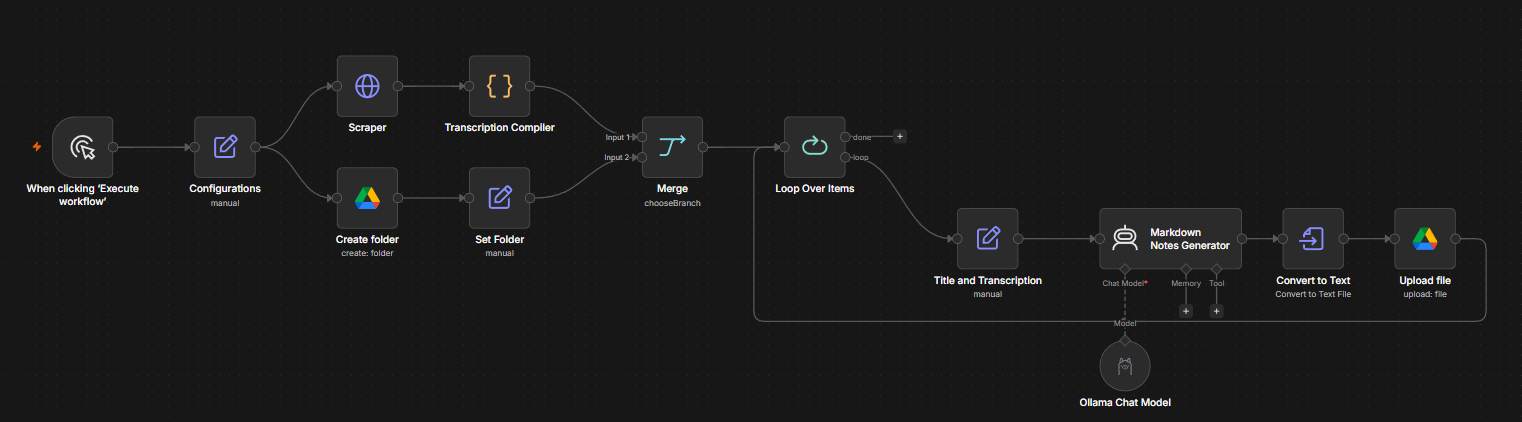
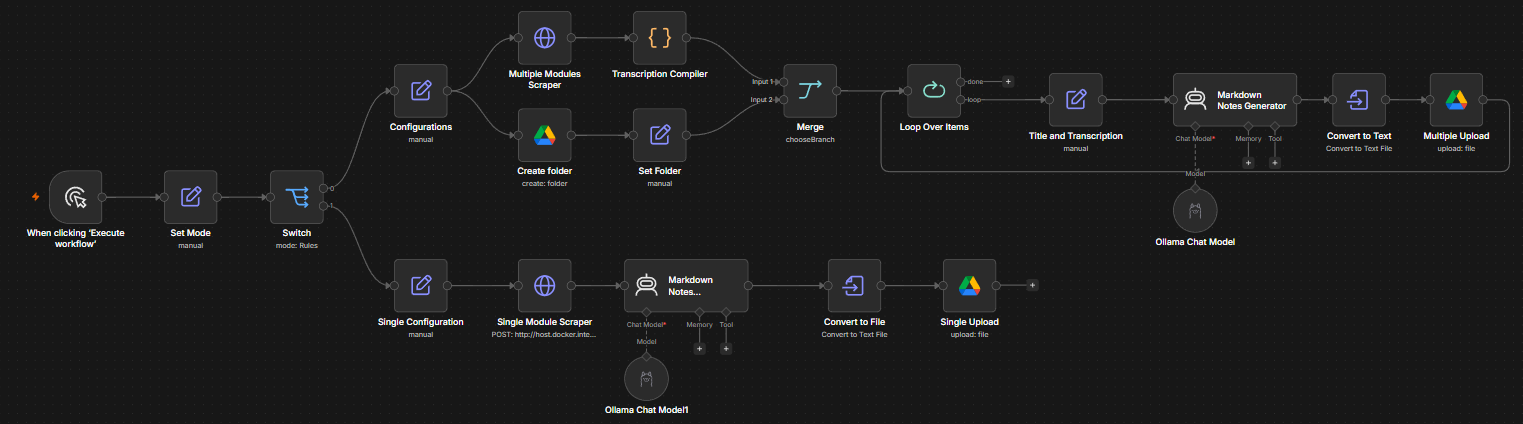
Del: removed troubleshooting sectionn

diff --git a/README.md b/README.md
@@ -5,7 +5,7 @@
 <p align="center"><i>Watch the lecture once. Keep the notes forever.</i></p>
 
 <p align="center">
-A small FastAPI service drives a logged-in Chromium browser through a Coursera course, opens every lecture in a module and reads its transcript. An n8n workflow calls that service, hands each transcript to a local Ollama model that writes the study notes, and uploads one Markdown file per lecture into a Google Drive folder.
+A small FastAPI service drives a logged-in Chromium browser through Coursera and reads lecture transcripts, either a whole module at a time or one lecture at a time. An n8n workflow calls that service, hands each transcript to a local Ollama model that writes the study notes, and uploads the Markdown files to Google Drive.
 </p>
 
 <p align="center">
@@ -22,7 +22,7 @@ A small FastAPI service drives a logged-in Chromium browser through a Coursera c
 ## Preview
 
 <p align="center">
-  <img src="docs/n8n-workflow.png" alt="The n8n workflow, from the manual trigger to the Google Drive upload" width="900" />
+  <img src="docs/n8n-workflow.png" alt="The n8n workflow: Set Mode and a Switch route each run to the multiple modules branch or the single module branch" width="900" />
 </p>
 
 ## Runs locally
@@ -41,56 +41,66 @@ What this means:
 
 - **Private.** Your Coursera session cookies and lecture transcripts stay on your computer. The model writes notes offline, and only the finished Markdown files are uploaded.
 - **Free to run.** There are no per-request API costs, so you can generate notes for a whole course as often as you like.
-- **Under your control.** You choose the Ollama model, edit the prompt in the Markdown Notes Generator node, and can point the upload step somewhere else, such as a local folder, if you'd rather not use Drive.
+- **Under your control.** You choose the Ollama model, edit the prompt in the Markdown Notes Generator nodes, and can point the upload step somewhere else, such as a local folder, if you'd rather not use Drive.
 
-Keep `auth.json`, `coursera_profile/` and `.env` out of version control. They're already listed in `.gitignore`, because anyone holding `auth.json` can sign in as you.
+Keep `auth.json` and `coursera_profile/` out of version control. They're already listed in `.gitignore`, because anyone holding `auth.json` can sign in as you.
+
+## Two modes
+
+| Mode | What it scrapes | Link to copy | Output |
+| --- | --- | --- | --- |
+| `multiple` | Every lecture in one module of a course | The **course page** | A new Drive folder with one note per lecture |
+| `single` | One lecture (topic) | The **lecture video page** | One note in your notes folder |
+
+Use `multiple` to take notes on a whole week of a course at once. Use `single` when you only need one topic, or to redo a single lecture's notes.
 
 ## Architecture
 
 ```
-n8n (Manual trigger → Configurations)
+n8n: Manual trigger → Set Mode → Switch
    │
-   ├── Scraper (HTTP GET) ──► FastAPI + Playwright (this folder)
-   │        │                     └── Chromium, logged in with auth.json
-   │        ▼
-   │   Transcription Compiler (Code)
+   ├── mode = "multiple"
+   │     Configurations
+   │       ├── Multiple Modules Scraper (POST /scrape_multiple/{module}) ──► FastAPI + Playwright
+   │       │     → Transcription Compiler (Code)
+   │       └── Google Drive: Create folder → Set Folder
+   │     → Merge → Loop Over Items → Title and Transcription
+   │     → Markdown Notes Generator (Ollama) → Convert to Text → Multiple Upload
    │
-   └── Google Drive: Create folder → Set Folder
-   │
-   ▼
-Merge → Loop Over Items → Title and Transcription
-   → Markdown Notes Generator (Ollama chat model)
-   → Convert to Text → Upload file to Google Drive
+   └── mode = "single"
+         Single Configuration
+         → Single Module Scraper (POST /scraper_single) ──► FastAPI + Playwright
+         → Markdown Notes Generator (Ollama) → Convert to File → Single Upload
 ```
+
+The scraper opens Coursera in a headless Chromium that's logged in with your saved `auth.json`.
 
 | Layer | Tech |
 | --- | --- |
 | Scraper | Python 3.12+, Playwright (Chromium) |
 | API | FastAPI, served with Uvicorn |
 | Workflow | n8n |
-| Notes generator | Ollama chat model, running locally |
+| Notes generator | Ollama chat model, running locally (`qwen3:8b` by default) |
 | Storage | Google Drive |
 
 ## Features
 
-- Scrapes every lecture transcript in a chosen module with one request
+- Two modes: a whole module in one run, or a single lecture
+- Paste the Coursera link exactly as it appears in your browser, with no config files to edit
+- Works with personal accounts and with organization or university accounts
 - Reuses a saved Coursera login, so the scraper never types your password
-- Works with personal accounts and with organization or university accounts through `COURSERA_LINK`
-- Returns transcripts grouped by lecture title, ready for n8n to loop over
 - Notes are written by a local model, so transcripts never leave your machine before they reach Drive
 
 ## Project structure
 
 ```
 coursera_scraper/
-├── main.py           # FastAPI app and the Playwright scraper
-├── login.py          # One-time manual login that saves auth.json
+├── main.py                   # FastAPI app and the Playwright scrapers
+├── login.py                  # One-time manual login that saves auth.json
 ├── automation_workflow.json  # n8n workflow export, ready to import
-├── docs/             # README images
-├── .env.example      # Template for COURSERA_LINK
-├── .env              # Your settings (git-ignored)
-├── auth.json         # Saved Coursera session (git-ignored)
-├── coursera_profile/ # Chrome profile used by login.py (git-ignored)
+├── docs/                     # README images
+├── auth.json                 # Saved Coursera session (git-ignored)
+├── coursera_profile/         # Chrome profile used by login.py (git-ignored)
 └── LICENSE
 ```
 
@@ -103,21 +113,11 @@ You need Python 3.12 or newer, Google Chrome, n8n and Ollama.
    ```powershell
    py -3.12 -m venv venv
    .\venv\Scripts\Activate.ps1
-   pip install fastapi uvicorn playwright python-dotenv
+   pip install fastapi uvicorn playwright
    playwright install chromium
    ```
 
-2. Copy `.env.example` to `.env` and set `COURSERA_LINK`:
-
-   ```env
-   # Personal account
-   COURSERA_LINK=https://www.coursera.org
-
-   # Organization or university account
-   COURSERA_LINK=https://www.coursera.org/organizations/your-organization-slug
-   ```
-
-3. **Log in to Coursera before you use the workflow.** The scraper can only open lectures with a saved login, so do this first:
+2. **Log in to Coursera before you use the workflow.** The scraper can only open lectures with a saved login, so do this first:
 
    ```powershell
    python login.py
@@ -125,7 +125,7 @@ You need Python 3.12 or newer, Google Chrome, n8n and Ollama.
 
    A Chrome window opens. Sign in to your Coursera account (or your organization's login page), then go back to the terminal and press Enter. Your session is saved to `auth.json`. Run it again whenever Coursera logs you out or the scraper ends up on the login page.
 
-4. Start the API from this folder, so it can find `auth.json` and `.env`:
+3. Start the API from this folder, so it can find `auth.json`:
 
    ```powershell
    python -m uvicorn main:app --port 8000
@@ -133,7 +133,7 @@ You need Python 3.12 or newer, Google Chrome, n8n and Ollama.
 
    Leave off `--reload`. On Windows it switches the event loop and Playwright fails to launch the browser.
 
-5. Open `http://localhost:8000/test`. You should see `"Successfull Test"`.
+4. Open `http://localhost:8000/test`. You should see `"Successfull Test"`.
 
 ## Installing Ollama
 
@@ -153,34 +153,40 @@ Ollama runs the AI model that writes the notes, right on your computer.
 
    The server listens on `http://localhost:11434`. If it isn't running, start it with `ollama serve`.
 
-3. Pull a model. **You can use any model you like.** The workflow ships with `gemma3:4b`, but any chat model from the [Ollama library](https://ollama.com/library) works:
+3. Pull a model. **You can use any model you like.** The workflow ships with `qwen3:8b`, but any chat model from the [Ollama library](https://ollama.com/library) works:
 
    ```powershell
-   ollama pull gemma3:4b
+   ollama pull qwen3:8b
    ```
 
    | Model | Size | Good for |
    | --- | --- | --- |
-   | `gemma3:4b` | ~3 GB | Default. Fast on most laptops |
+   | `qwen3:8b` | ~5 GB | Default. Well-structured notes, handles code identifiers well |
+   | `gemma3:4b` | ~3 GB | Faster on most laptops |
    | `llama3.2:3b` | ~2 GB | Low-memory machines |
-   | `qwen2.5:7b` | ~5 GB | Longer, more detailed notes |
-   | `llama3.1:8b` | ~5 GB | Better structure on technical lectures |
+   | `llama3.1:8b` | ~5 GB | An alternative 8B model |
 
    Bigger models write better notes but need more RAM or VRAM and take longer per lecture.
 
-4. Select your model in n8n. Open the **Ollama Chat Model** node and choose it from the **Model** dropdown, which lists every model you've pulled. Run `ollama list` to see them in the terminal.
+4. Select your model in n8n. Open the **Ollama Chat Model** and **Ollama Chat Model1** nodes (one for each mode) and choose it from the **Model** dropdown, which lists every model you've pulled. Run `ollama list` to see them in the terminal.
+
+   `qwen3` is a thinking model. Its reasoning would end up in your notes, so the workflow turns thinking off: the **Think** option is off in the Ollama node, and the single mode prompt ends with `/no_think`. Keep those if you switch to another qwen3 size.
 
 ## API
 
+Both scrape routes take a JSON body with the full Coursera link:
+
+```json
+{ "link": "https://www.coursera.org/..." }
+```
+
 | Method | Route | Description |
 | --- | --- | --- |
-| GET | `/scrape/{module_num}/{coursera_link}` | Scrape every lecture transcript in module `module_num` (counting from 1) of the course at `COURSERA_LINK/{coursera_link}` |
+| POST | `/scrape_multiple/{module_num}` | Scrape every lecture in module `module_num` (counting from 1). `link` is the **course page** |
+| POST | `/scraper_single` | Scrape one lecture. `link` is the **lecture video page** |
 | GET | `/test` | Health check |
-| GET | `/test/{module}/{coursera_path}` | Echoes the parameters back, to check what n8n is sending |
 
-`coursera_link` is the course path after `COURSERA_LINK`, for example `learn/ai-machine-learning-apply-build-solve`.
-
-The response is a list with one object per lecture, mapping its title to the transcript lines:
+`/scrape_multiple` returns a list with one object per lecture, mapping its title to the transcript lines:
 
 ```json
 [
@@ -188,32 +194,76 @@ The response is a list with one object per lecture, mapping its title to the tra
 ]
 ```
 
+`/scraper_single` returns the lecture's whole transcript as one string.
+
 ## Importing the n8n workflow
 
 The whole workflow is exported in `automation_workflow.json`.
 
 1. In n8n, create a new workflow, open the **⋯** menu, choose **Import from File…** and pick `automation_workflow.json`. You can also paste the file's contents straight onto the canvas.
 2. Connect your own credentials. They aren't included in the export, so each node below shows a warning until you set one:
-   - **Ollama Chat Model**: an Ollama credential pointing at your Ollama server (`http://localhost:11434`, or `http://host.docker.internal:11434` if n8n runs in Docker)
-   - **Create folder** and **Upload file**: a Google Drive OAuth2 credential
-3. In **Create folder**, choose the Drive folder the notes should go into. The export still points at the author's "Generated Markdown Notes" folder, which you can't access.
-4. In **Ollama Chat Model**, pick the model you pulled. It's set to `gemma3:4b`, but any model works (see [Installing Ollama](#installing-ollama)).
+   - **Ollama Chat Model** and **Ollama Chat Model1**: an Ollama credential pointing at your Ollama server (`http://localhost:11434`, or `http://host.docker.internal:11434` if n8n runs in Docker)
+   - **Create folder**, **Multiple Upload** and **Single Upload**: a Google Drive OAuth2 credential
+3. Choose your own Drive folder in **Create folder** (multiple mode makes its folders inside it) and in **Single Upload** (single mode notes go straight into it). The export still points at the author's "Generated Markdown Notes" folder, which you can't access.
+4. In both Ollama nodes, pick the model you pulled. It's set to `qwen3:8b`, but any model works (see [Installing Ollama](#installing-ollama)).
+5. Check the **Multiple Modules Scraper** and **Single Module Scraper** URLs. They're set to `http://host.docker.internal:8000/...` for n8n in Docker. If you run n8n with npm, change them to `http://localhost:8000/...`.
 
-5. Check the **Scraper** URL. It's set to `http://host.docker.internal:8000/...` for n8n in Docker. If you run n8n with npm, change it to `http://localhost:8000/...`.
-
-### Running it
+## Using the automation
 
 Before every run, make sure you've logged in with `python login.py` at least once and the API is running with `python -m uvicorn main:app --port 8000`.
 
-The workflow starts with a **manual trigger**, so nothing runs on a schedule. Set the course in the **Configurations** node, then click **Execute workflow**:
+The workflow starts with a **manual trigger**, so nothing runs on a schedule.
 
-| Field | Example | Meaning |
+### 1. Choose a mode in Set Mode
+
+Open the **Set Mode** node and set `mode` to `multiple` or `single`. The **Switch** node reads it and sends the run down the matching branch, so you don't need to touch the other one.
+
+| `mode` | Branch that runs | Node to fill in next |
 | --- | --- | --- |
-| `link` | `learn/ai-machine-learning-apply-build-solve` | Course path after `COURSERA_LINK` |
-| `module_number` | `1` | Module to scrape, counting from 1 |
-| `title` | `Machine Learning` | Name of the Drive folder created for this run |
+| `multiple` | Top branch | **Configurations** |
+| `single` | Bottom branch | **Single Configuration** |
 
-Each run creates a folder named after `title` and uploads one `.md` note for every lecture in that module. A module with many lectures can take a few minutes, so raise the Scraper node's timeout if the request gets cut off.
+Type the value in lowercase. The Switch compares it exactly, so `Single` or `multi` won't match either branch.
+
+### 2a. Multiple modules: copy the course page link
+
+1. Open the course on Coursera and go to its main page, the one that lists the modules.
+2. Copy the link from the address bar. It looks like:
+
+   ```
+   https://www.coursera.org/learn/<course-name>
+   https://www.coursera.org/organizations/<your-organization>/learn/<course-name>
+   ```
+
+3. Fill in **Configurations**:
+
+   | Field | Example | Meaning |
+   | --- | --- | --- |
+   | `link` | `https://www.coursera.org/learn/<course-name>` | The course page link |
+   | `module_number` | `1` | Module to scrape, counting from 1 |
+   | `title` | `Machine Learning` | Name of the Drive folder created for this run |
+
+4. Click **Execute workflow**. It creates a folder named after `title` and uploads one `.md` note for every lecture in that module.
+
+To take notes on several modules, run it once per module and change `module_number` each time. A module with many lectures can take a few minutes, so raise the scraper node's timeout if the request gets cut off.
+
+### 2b. Single module: copy the lecture video page link
+
+1. Open the lecture you want on Coursera, on the page where the video plays.
+2. Copy the link from the address bar. It has `/lecture/` in it:
+
+   ```
+   https://www.coursera.org/learn/<course-name>/lecture/<id>/<lecture-name>
+   ```
+
+3. Fill in **Single Configuration**:
+
+   | Field | Example | Meaning |
+   | --- | --- | --- |
+   | `module_link` | `https://www.coursera.org/learn/<course-name>/lecture/<id>/<lecture-name>` | The lecture video page link |
+   | `title` | `Recap - Programming Fundamentals` | File name of the note (`.md` is added for you) |
+
+4. Click **Execute workflow**. It uploads one note named `title.md` to the folder set in **Single Upload**.
 
 ## Troubleshooting
 
@@ -221,9 +271,11 @@ Each run creates a folder named after `title` and uploads one `.md` note for eve
 | --- | --- |
 | `uvicorn` is not recognized | Activate the venv, or run `python -m uvicorn main:app` |
 | `NotImplementedError` when the browser starts | Start Uvicorn without `--reload` |
-| Requests hang for 30 seconds, then fail | Coursera changed its page layout and a selector in `main.py` no longer matches |
+| Nothing runs after Set Mode | `mode` must be exactly `multiple` or `single`, in lowercase |
+| Requests hang for 30 seconds, then fail | Check you pasted the right kind of link for the mode. If it's right, Coursera changed its page layout and a selector in `main.py` no longer matches |
 | Redirected to the login page | Run `python login.py` again to refresh `auth.json` |
 | `IndexError` | The module number is higher than the number of modules in the course |
+| The note starts with the model's reasoning | Turn off **Think** in the Ollama node, or keep `/no_think` at the end of the prompt |
 
 ## Disclaimer
 
